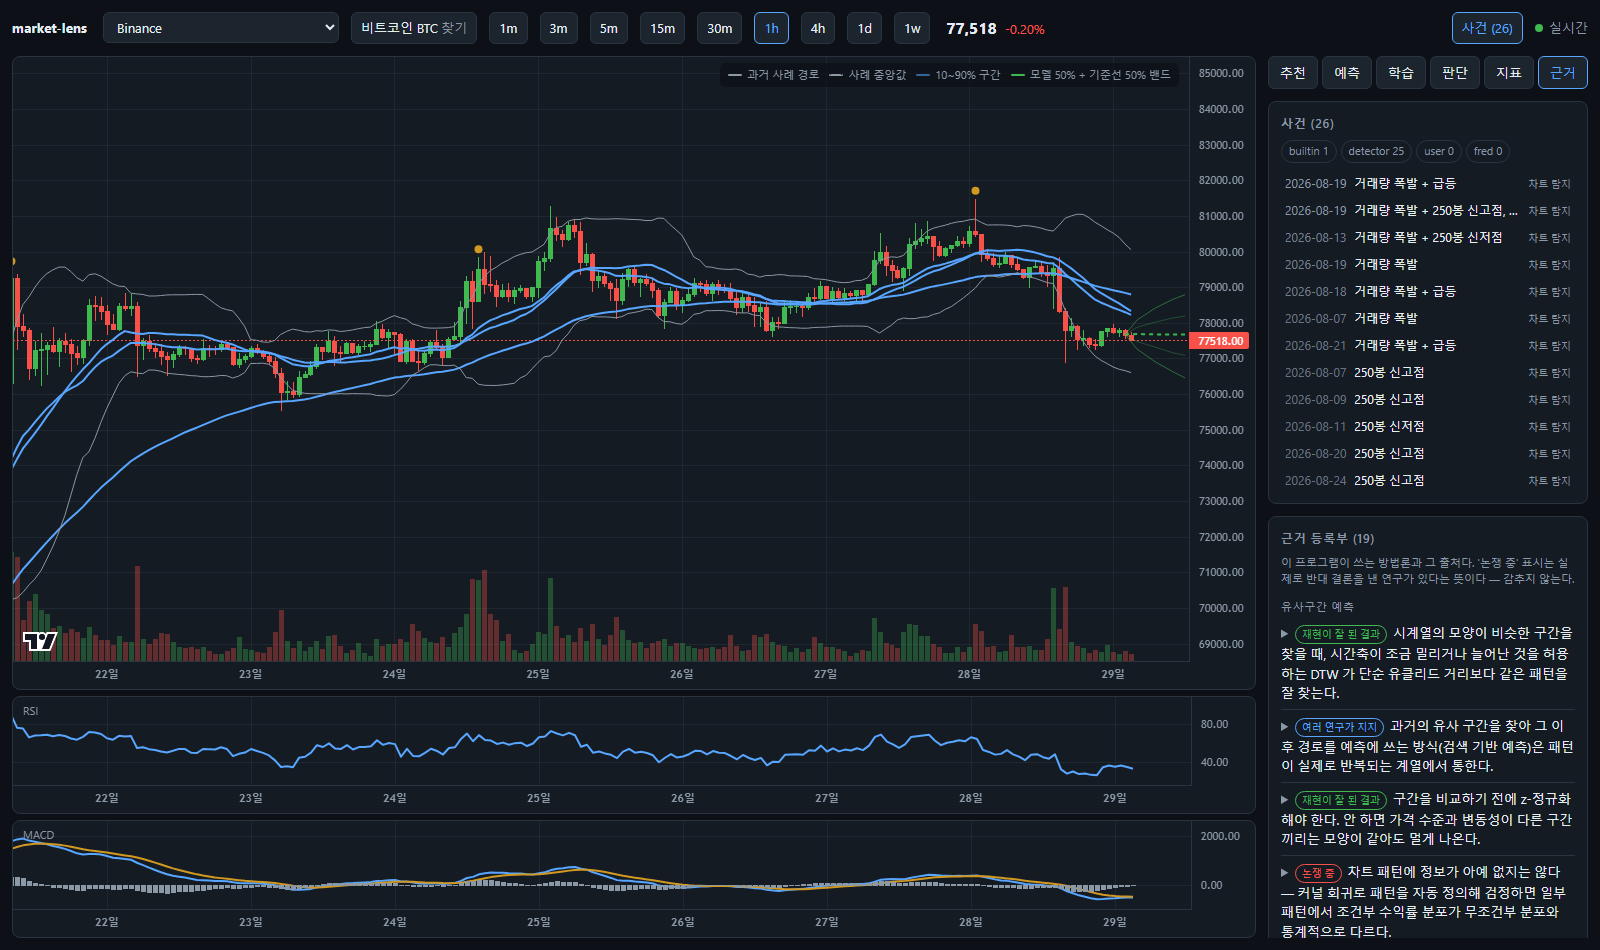
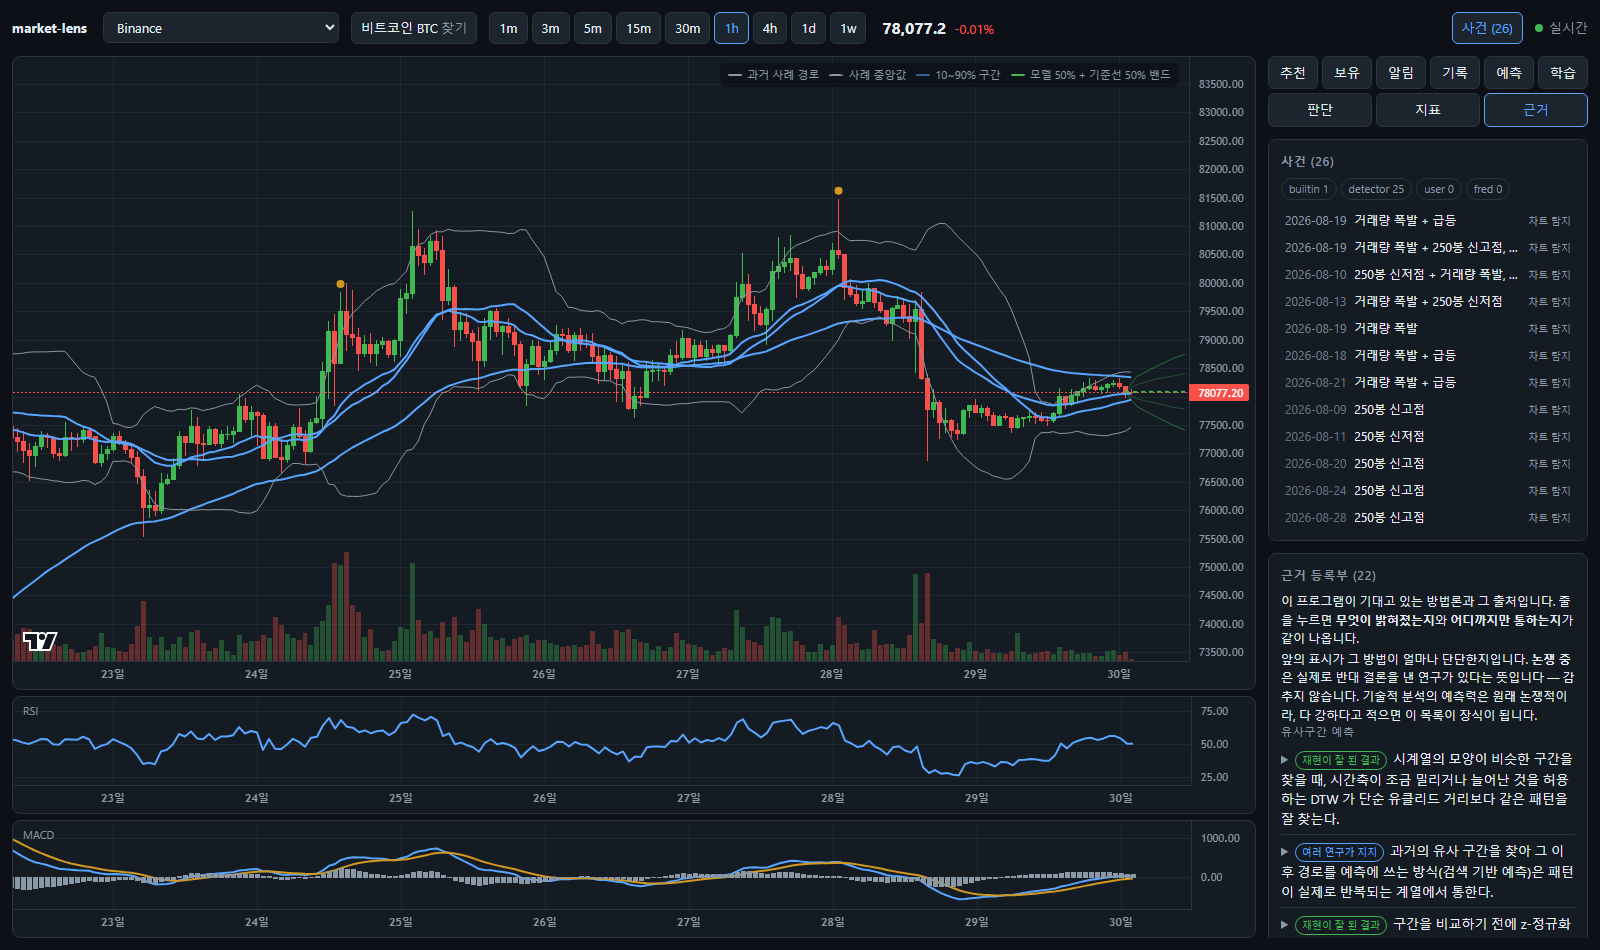
feat: 예측 탭도 말로 설명한다 — 근거 탭은 원래 그랬다
## 근거 탭은 손댈 게 거의 없었다

원래부터 **주장 → 효과 → 한계 → 출처** 구조라 이 저장소에서 제일 잘 쓰인 화면이다.
머리말만 사람에게 하는 말투로 맞추고, '논쟁 중' 표시가 무슨 뜻인지 한 줄 덧붙였다.

## 예측 탭 — 통계 용어를 풀었다

`t 값 2.01 유의` 는 t값을 모르면 못 읽고, 알면 굳이 문장으로 안 읽는다. 뜻을 풀어
쓰고(`우연으로 보기는 어려운 차이입니다`) 숫자는 접어 둔다 — 지우면 확인할 길이
없어진다.

**사건 창이 겹칠 때는 유의성을 아예 말하지 않는다.** 겹치면 사건들이 서로 독립이
아니어서 t 값이 실제보다 커지는데, 예전 화면은 `t 값 2.01 유의` 를 띄우고 그 경고를
아래에 따로 달았다. 읽는 순서상 "유의" 를 먼저 믿게 된다.

서버가 내는 답 문장(`scenario/engine.py: summarize`)도 같이 고쳤다. 화면이 아니라
거기가 이 탭의 본문이라, 한쪽만 고치면 같은 화면에서 두 말투가 섞인다.

## 답을 되풀이하지 않게 나눴다

처음엔 「예측」 카드가 "지금과 비슷했던 자리를 20건 찾았고 가운데쯤이 1.1% 내렸고…"
로 시작했는데, 바로 위 「답」 카드가 이미 같은 말을 하고 있었다. 그러면 둘 다 안
읽힌다. 「답」은 **그래서 어떻게 갔나**, 「예측」은 **그 답을 얼마나 믿을 만한가**
(몇 건이고 얼마나 닮았나)로 나눴다.

## 곁들여

`.plain` 에 아래 여백을 조금 줬다. 없으면 다음 칸 제목이 문장에 붙어 한 덩어리로
읽힌다.

`chart-predict.png` 의 스크롤은 되돌렸다 — 그 그림은 **예측 경로가 마지막 봉 다음부터
그려지는지** 를 보는 유일한 자리라, 옆 띠를 내리면 정작 봐야 할 것이 안 보인다.

diff --git a/web/src/components/AskPanel.tsx b/web/src/components/AskPanel.tsx
@@ -1,6 +1,8 @@
 import { useEffect, useState } from "react";
 
 import type { AskResult, EventStudy, Evidence, Projection, ScenarioForm } from "../types";
+import { analogWords, coverageWords, eventStudyWords } from "../say";
+import { Numbers } from "./Numbers";
 
 const PRESETS: Array<{ label: string; hours: number }> = [
   { label: "1일", hours: 24 },
@@ -293,52 +295,58 @@ function ProjectionCard({ projection }: { projection: Projection }) {
   return (
     <section className="card">
       <h2>예측</h2>
-      <div className="rows">
-        <div className="row">
-          <span>사례 수</span>
-          <b>{projection.sampleCount}건</b>
-        </div>
-        <div className="row">
-          <span>중앙 경로</span>
-          <b>{pct(projection.expectedMovePct, 2)}</b>
-        </div>
-        <div className="row">
-          <span>상승 비중</span>
-          <b>{pct((projection.probUp ?? 0) * 100, 0)}</b>
-        </div>
-        <div className="row">
-          <span>가장 비슷한 정도</span>
-          <b>
-            {closeness(d.distanceMin)}
-            <span style={{ color: "var(--text-dim)" }}> ({d.distanceMin.toFixed(2)})</span>
-          </b>
-        </div>
-        <div className="row">
-          <span>밴드 적중률</span>
-          <b>
-            {d.coverage === null ? "—" : `${(d.coverage * 100).toFixed(0)}%`}
-            <span style={{ color: "var(--text-dim)" }}>
-              {" "}
-              / 목표 {(d.nominalCoverage * 100).toFixed(0)}%
-            </span>
-          </b>
-        </div>
-        {d.widenFactor > 1.01 && (
-          <div className="row">
-            <span>밴드 보정</span>
-            <b>×{d.widenFactor.toFixed(2)}</b>
-          </div>
-        )}
-      </div>
-      {!d.reliable && (
-        <p className="note warn">
-          사례가 적거나 흩어져 있다. 밴드가 실제 분포를 못 담고 있을 수 있으니
-          방향보다 폭을 보는 데 쓸 것.
+      {/* **몇 건인지가 답의 무게다.** 사례 셋짜리 60%와 스물짜리 60%는 다른 말인데,
+          `사례 수 12건` 이라고만 적혀 있으면 그 무게가 안 읽힌다. */}
+      {analogWords(projection.sampleCount, d.distanceMin,
+                   d.reliable).map((line, i) => (
+        <p className="plain" key={i} style={{ marginTop: i === 0 ? 0 : 4 }}>
+          {line.split("**").map((part, j) => (j % 2 === 1 ? <b key={j}>{part}</b> : part))}
         </p>
+      ))}
+      {coverageWords(d.coverage, d.nominalCoverage, d.widenFactor) && (
+        <p className="plain">{coverageWords(d.coverage, d.nominalCoverage, d.widenFactor)}</p>
       )}
+      <Numbers>
+        <div className="rows">
+          <div className="row">
+            <span>사례 수</span>
+            <b>{projection.sampleCount}건</b>
+          </div>
+          <div className="row">
+            <span>중앙 경로</span>
+            <b>{pct(projection.expectedMovePct, 2)}</b>
+          </div>
+          <div className="row">
+            <span>상승 비중</span>
+            <b>{pct((projection.probUp ?? 0) * 100, 0)}</b>
+          </div>
+          <div className="row">
+            <span>가장 비슷한 정도</span>
+            <b>
+              {closeness(d.distanceMin)}
+              <span style={{ color: "var(--text-dim)" }}> ({d.distanceMin.toFixed(2)})</span>
+            </b>
+          </div>
+          <div className="row">
+            <span>밴드 적중률</span>
+            <b>
+              {d.coverage === null ? "—" : `${(d.coverage * 100).toFixed(0)}%`}
+              <span style={{ color: "var(--text-dim)" }}>
+                {" "}/ 목표 {(d.nominalCoverage * 100).toFixed(0)}%
+              </span>
+            </b>
+          </div>
+          {d.widenFactor > 1.01 && (
+            <div className="row">
+              <span>밴드 보정</span>
+              <b>×{d.widenFactor.toFixed(2)}</b>
+            </div>
+          )}
+        </div>
+      </Numbers>
       <p className="formula" style={{ marginBottom: 0 }}>
-        회색 얇은 선이 과거 사례의 실제 경로, 파란 점선이 그 중앙값, 옅은 파란 선이
-        10·25·75·90% 구간이다. 노란 점선은 같은 종류의 사건 이후 평균 경로.
+        차트의 회색 얇은 선이 과거 사례의 실제 경로, 파란 점선이 그 중앙값, 옅은 파란
+        선이 10·25·75·90% 구간이다. 노란 점선은 같은 종류의 사건 이후 평균 경로.
       </p>
     </section>
   );
@@ -374,38 +382,44 @@ function EventStudyCard({ study }: { study: EventStudy }) {
   if (!study.available) return null;
   return (
     <section className="card">
-      <h2>사건 이후 (이벤트 스터디)</h2>
-      <div className="rows">
-        <div className="row">
-          <span>사건 수</span>
-          <b>{study.count}건</b>
-        </div>
-        <div className="row">
-          <span>{study.after}봉 뒤 누적 초과수익</span>
-          <b style={{ color: (study.finalCarPct ?? 0) >= 0 ? "var(--up)" : "var(--down)" }}>
-            {pct(study.finalCarPct, 2)}
-          </b>
-        </div>
-        <div className="row">
-          <span>t 값</span>
-          <b>
-            {study.finalTStat?.toFixed(2)}{" "}
-            <span style={{ color: study.significant ? "var(--up)" : "var(--text-dim)" }}>
-              {study.significant ? "유의" : "유의하지 않음"}
-            </span>
-          </b>
-        </div>
-        <div className="row">
-          <span>방향 일치율</span>
-          <b>{pct((study.hitRate ?? 0) * 100, 0)}</b>
-        </div>
-      </div>
-      {study.overlapping && (
-        <p className="note warn">
-          사건 창이 서로 겹친다. 겹치면 사건들이 독립이 아니라서 t 값이 실제보다 커진다 —
-          유의하다는 표시를 그대로 믿지 말 것.
+      <h2>사건 이후</h2>
+      {/* **`t 값 2.01 유의` 를 그대로 내보내지 않는다.** 그 표시가 뜻하는 것은
+          "우연으로 보기 어렵다" 인데, t값을 모르면 못 읽고 알면 굳이 문장으로 안 읽는다.
+          뜻을 풀고 숫자는 아래 접어 둔다. */}
+      {eventStudyWords(study.count ?? 0, study.after ?? 0, study.finalCarPct ?? null,
+                       Boolean(study.significant), study.hitRate ?? null,
+                       Boolean(study.overlapping)).map((line, i) => (
+        <p className="plain" key={i} style={{ marginTop: i === 0 ? 0 : 4 }}>
+          {line.split("**").map((part, j) => (j % 2 === 1 ? <b key={j}>{part}</b> : part))}
         </p>
-      )}
+      ))}
+      <Numbers>
+        <div className="rows">
+          <div className="row">
+            <span>사건 수</span>
+            <b>{study.count}건</b>
+          </div>
+          <div className="row">
+            <span>{study.after}봉 뒤 누적 초과수익 (CAR)</span>
+            <b style={{ color: (study.finalCarPct ?? 0) >= 0 ? "var(--up)" : "var(--down)" }}>
+              {pct(study.finalCarPct, 2)}
+            </b>
+          </div>
+          <div className="row">
+            <span>t 값</span>
+            <b>
+              {study.finalTStat?.toFixed(2)}{" "}
+              <span style={{ color: study.significant ? "var(--up)" : "var(--text-dim)" }}>
+                {study.significant ? "유의" : "유의하지 않음"}
+              </span>
+            </b>
+          </div>
+          <div className="row">
+            <span>방향 일치율</span>
+            <b>{pct((study.hitRate ?? 0) * 100, 0)}</b>
+          </div>
+        </div>
+      </Numbers>
     </section>
   );
 }

diff --git a/web/src/say.ts b/web/src/say.ts
@@ -278,3 +278,75 @@ export function afterWords(points: number[]): string | null {
   if (last > 0) return rising ? "그 뒤로 계속 올랐습니다" : "그 뒤로 올랐다가 힘이 빠졌습니다";
   return rising ? "내렸다가 돌아오는 중입니다" : "그 뒤로 계속 내렸습니다";
 }
+
+// --- 예측 (유사구간) -----------------------------------------------------
+
+/**
+ * 유사구간 예측을 한 문단으로.
+ *
+ * 이 예측은 "지금과 비슷했던 과거를 찾아 그때 이후를 본다" 하나다. 그래서 **사례가
+ * 몇 건이고 얼마나 비슷했나**가 답의 무게를 정한다 — 사례 셋짜리 60%와 스물짜리
+ * 60%는 다른 말이다(`analog/projection.py: diagnostics.reliable`).
+ *
+ * **답을 되풀이하지 않는다.** 위의 「답」 카드가 이미 "그래서 어떻게 갔나" 를 말하므로
+ * 여기는 **"그 답을 얼마나 믿을 만한가"** 만 맡는다 — 몇 건이고 얼마나 닮았나.
+ */
+export function analogWords(count: number, distance: number,
+                            reliable?: boolean): string[] {
+  const many = count >= 20 ? "제법 많습니다" : count >= 10 ? "그럭저럭 됩니다" : "적습니다";
+  // 거리는 z-정규화한 창끼리의 DTW 거리다. 작을수록 모양이 닮았다.
+  const close = distance < 0.2 ? "지금과 거의 판박이였습니다"
+    : distance < 0.4 ? "지금과 제법 닮았습니다"
+    : distance < 0.7 ? "지금과 어느 정도만 닮았습니다"
+    : "지금과 그리 닮지 않았습니다";
+  const out = [`비슷했던 자리를 ${count}건 찾았습니다 — 이 정도면 ${many}. 그중 가장 가까운 자리는 ${close}.`];
+
+  // **믿을 자리인지 먼저 말한다.** 이 도구가 제일 조심해야 하는 자리다 —
+  // 사례 셋짜리 60%와 스물짜리 60%는 다른 말이다.
+  out.push(reliable
+    ? "사례가 충분히 모였고 서로 비슷해서, 위 답의 **폭**은 읽을 만합니다."
+    : "**다만 사례가 적거나 서로 흩어져 있습니다.** 폭이 실제를 못 담고 있을 수 있으니 방향보다 폭을 보는 데만 쓰는 게 맞습니다.");
+  return out;
+}
+
+/** 밴드가 실제로 얼마나 맞았나(사례 하나를 빼고 만든 밴드가 그 사례를 덮었나). */
+export function coverageWords(coverage: number | null, target: number,
+                              widen: number): string | null {
+  if (coverage === null || !Number.isFinite(coverage)) return null;
+  const hit = outOfTen(coverage);
+  const goal = Math.round(target * 100);
+  const wide = widen > 1.01 ? ` 모자란 만큼 폭을 ${widen.toFixed(2)}배로 넓혔습니다.` : "";
+  return `사례 하나를 빼고 만든 폭이 그 사례를 ${hit} 덮었습니다 (목표 ${goal}%).${wide}`;
+}
+
+/**
+ * 이벤트 스터디를 말로. **`t 값 2.01 유의` 를 그대로 내보내지 않는다.**
+ *
+ * 그 표시가 뜻하는 것은 "우연으로 보기 어렵다" 이고, 아닐 때는 "우연일 수도 있다" 다.
+ * t값을 모르면 못 읽고, 알면 굳이 문장으로 안 읽는다 — 뜻을 풀고 숫자는 남긴다.
+ *
+ * `overlapping` 이면 그 판정 자체를 믿으면 안 된다. 사건 창이 겹치면 사건들이 독립이
+ * 아니라서 t 값이 실제보다 커진다.
+ */
+export function eventStudyWords(count: number, after: number, carPct: number | null,
+                                significant: boolean, hitRate: number | null,
+                                overlapping: boolean): string[] {
+  const car = carPct ?? 0;
+  const where = Math.abs(car) < 0.3 ? "평소와 별로 다르지 않았습니다"
+    : car > 0 ? `평소보다 ${car.toFixed(1)}% 더 갔습니다`
+    : `평소보다 ${Math.abs(car).toFixed(1)}% 덜 갔습니다`;
+  const out = [`같은 종류의 사건이 과거에 ${count}건 있었고, 그 뒤 ${after}봉 동안 ${where}.`];
+
+  if (overlapping) {
+    // **겹치면 판정을 믿을 수 없다.** 유의/유의하지 않음보다 이 말이 먼저다.
+    out.push("**다만 사건 창이 서로 겹칩니다.** 그러면 사건들이 서로 독립이 아니어서 " +
+             "이 차이가 실제보다 커 보입니다 — 우연인지 아닌지는 판단하지 않는 게 맞습니다.");
+  } else {
+    out.push(significant
+      ? "우연으로 보기는 어려운 차이입니다."
+      : "다만 우연히 그렇게 보일 수도 있는 정도라, 이것만으로는 말하기 어렵습니다.");
+  }
+  const hit = outOfTen(hitRate);
+  if (hit) out.push(`방향은 ${hit} 같은 쪽이었습니다.`);
+  return out;
+}

diff --git a/web/src/components/Panels.tsx b/web/src/components/Panels.tsx
@@ -366,9 +366,16 @@ export function EvidenceLibrary({ entries }: { entries: Evidence[] }) {
   return (
     <section className="card">
       <h2>근거 등록부 ({entries.length})</h2>
-      <p className="formula" style={{ marginTop: 0 }}>
-        이 프로그램이 쓰는 방법론과 그 출처다. '논쟁 중' 표시는 실제로 반대 결론을 낸
-        연구가 있다는 뜻이다 — 감추지 않는다.
+      {/* 이 화면은 원래부터 **주장 → 효과 → 한계 → 출처** 로 말이 먼저다.
+          머리말만 사람에게 하는 말투로 맞춘다. */}
+      <p className="plain" style={{ marginTop: 0 }}>
+        이 프로그램이 기대고 있는 방법론과 그 출처입니다. 줄을 누르면 <b>무엇이
+        밝혀졌는지</b>와 <b>어디까지만 통하는지</b>가 같이 나옵니다.
+      </p>
+      <p className="plain">
+        앞의 표시가 그 방법이 얼마나 단단한지입니다. <b>논쟁 중</b>은 실제로 반대
+        결론을 낸 연구가 있다는 뜻입니다 — 감추지 않습니다. 기술적 분석의 예측력은
+        원래 논쟁적이라, 다 강하다고 적으면 이 목록이 장식이 됩니다.
       </p>
       {fields.map((field) => (
         <div key={field}>

diff --git a/web/src/theme.css b/web/src/theme.css
@@ -223,7 +223,8 @@ button:disabled { opacity: 0.4; cursor: default; }
 
 /* 사람 말로 쓴 설명. 이 화면에서 **먼저 읽히는 줄**이라 본문 크기로 두고,
    숫자보다 밝게 둔다 — 반대로 하면 결국 숫자부터 읽게 된다. */
-.plain { color: var(--text); font-size: 12px; line-height: 1.55; margin: 2px 0 0; }
+/* 아래 여백을 조금 준다. 없으면 다음 칸 제목이 문장에 붙어 한 덩어리로 읽힌다. */
+.plain { color: var(--text); font-size: 12px; line-height: 1.55; margin: 2px 0 5px; }
 
 /* 접어 둔 숫자(`components/Numbers.tsx`). 여는 글자는 눈에 안 띄어야 한다 —
    설명을 다 읽고 그래도 궁금할 때 찾는 자리지, 먼저 누르라고 있는 게 아니다. */

diff --git a/server/marketlens/scenario/engine.py b/server/marketlens/scenario/engine.py
@@ -133,33 +133,44 @@ def _event_path(car_profile: dict, last_close: float, last_ts: int, timeframe: s
 
 
 def summarize(scenario: Scenario, forecast: dict, car: dict, matched: int) -> str:
-    """숫자를 사람 문장으로. 단정하지 않는다 — 근거의 크기를 같이 말한다."""
+    """숫자를 사람 문장으로. 단정하지 않는다 — 근거의 크기를 같이 말한다.
+
+    **이 답을 읽는 사람이 t값·유의성을 공부했을 이유가 없다.** 예전에는
+    `그 차이는 통계적으로 유의하다(t=+2.01)` 로 나갔는데, 그걸 모르면 읽을 수 없고
+    알면 굳이 문장으로 안 읽는다. 뜻을 풀어 쓰고 숫자는 `t값` 그대로 괄호에 남긴다 —
+    지우면 확인할 길이 없어진다.
+    """
     if not forecast.get("available"):
-        return f"{scenario.horizon_text} 뒤를 볼 만한 과거 사례를 찾지 못했다."
+        return f"{scenario.horizon_text} 뒤를 볼 만한 과거 사례를 찾지 못했습니다."
 
     move = forecast["expectedMovePct"]
     prob = forecast["probUp"] * 100
     count = forecast["sampleCount"]
     reliable = forecast["diagnostics"]["reliable"]
 
+    where = ("거의 제자리였습니다" if abs(move) < 0.5
+             else f"{abs(move):.1f}% {'올랐습니다' if move > 0 else '내렸습니다'}")
     parts = [
-        f"비슷했던 과거 {count}건을 기준으로 {scenario.horizon_text} 뒤 중앙값은 "
-        f"{move:+.2f}%, 상승 쪽이 {prob:.0f}% 다."
+        f"지금과 비슷했던 과거 {count}건을 찾았고, 그 뒤 {scenario.horizon_text} 동안 "
+        f"가운데쯤이 {where}. 그중 {prob:.0f}%가 오른 자리였습니다."
     ]
     if scenario.event_kinds or scenario.event_tags:
         if matched:
-            parts.append(f"조건에 맞는 사건 {matched}건이 후보를 좁혔다.")
+            parts.append(f"사건 조건에 맞는 자리 {matched}건으로 후보를 좁혔습니다.")
         else:
-            parts.append("다만 조건에 맞는 사건이 과거에 없어 사건 조건은 적용되지 않았다.")
+            parts.append("다만 조건에 맞는 사건이 과거에 없어 사건 조건은 적용하지 못했습니다.")
     if car.get("available"):
-        sign = "위" if car["finalCarPct"] > 0 else "아래"
-        verdict = "통계적으로 유의하다" if car["significant"] else "통계적으로 유의하지 않다"
+        sign = "더 갔습니다" if car["finalCarPct"] > 0 else "덜 갔습니다"
+        # "유의하다/않다" 를 그대로 쓰지 않는다. 그 말이 뜻하는 것은 "우연으로 보기
+        # 어렵다" 이고, 아닐 때는 "우연일 수도 있다" 다.
+        verdict = ("우연으로 보기는 어려운 차이입니다" if car["significant"]
+                   else "다만 우연히 그렇게 보일 수도 있는 정도입니다")
         parts.append(
-            f"같은 종류의 사건 {car['count']}건에서는 이후 평균이 정상 수익률보다 "
-            f"{abs(car['finalCarPct']):.2f}% {sign}였고, 그 차이는 {verdict}(t={car['finalTStat']:+.2f})."
+            f"같은 종류의 사건 {car['count']}건에서는 그 뒤 평소보다 "
+            f"{abs(car['finalCarPct']):.2f}% {sign} — {verdict}(t={car['finalTStat']:+.2f})."
         )
     if not reliable:
-        parts.append("사례가 적거나 흩어져 있어 이 숫자는 참고 수준으로만 볼 것.")
+        parts.append("사례가 적거나 서로 흩어져 있어, 방향보다 폭을 보는 데만 쓰는 게 맞습니다.")
     return " ".join(parts)
 
 

diff --git a/CLAUDE.md b/CLAUDE.md
@@ -630,6 +630,16 @@
   ⚠ **`살 만한 셋` 에 든 날만 그렇게 부를 것.** 셋 다 아닌데 "그중 N일 뒤를 제일 좋게
   봤다" 고 쓰면 **없던 매수 신호가 생긴다.** 시점을 찍어 주지도 않는다 — 방향 적중이
   반반을 겨우 넘는 모델로 "언제 사라" 를 말하면 그 사실을 숨기는 화면이 된다.
+- **통계 용어를 그대로 내보내지 말 것.** `t 값 2.01 유의` 는 t값을 모르면 못 읽고
+  알면 굳이 문장으로 안 읽는다. 뜻을 풀어 쓰고(`우연으로 보기는 어려운 차이입니다`)
+  숫자는 접어 둔다 — 지우면 확인할 길이 없어진다. `scenario/engine.py: summarize`
+  가 내는 답 문장도 같은 규칙을 지킨다(서버가 만드는 유일한 사람 문장이다).
+  ⚠ **사건 창이 겹치면 유의성을 아예 말하지 않는다.** 겹치면 사건들이 독립이 아니어서
+  t 값이 실제보다 커지는데, 예전 화면은 `유의` 라고 띄우고 경고를 그 아래 따로 달았다 —
+  읽는 순서상 "유의" 를 먼저 믿게 된다.
+- **답을 되풀이하지 말 것.** 「답」 카드가 "그래서 어떻게 갔나" 를 말하면 「예측」 카드는
+  **"그 답을 얼마나 믿을 만한가"** 만 맡는다. 둘 다 사례 수와 중앙값을 적으면 같은
+  문장이 두 번 나오고, 그러면 둘 다 안 읽힌다.
 - **숫자가 곧 답인 자리는 접지 말 것.** 보유의 손익(`지금까지 −₩3,487,500 (−69.75%)`)
   이나 실현손익은 말로 바꾸면 오히려 못 읽는다. 거기서 말이 필요한 건 **"그래서 지금
   어디쯤인가"** 쪽이라 손절선·목표까지 얼마나 남았는지를 문장으로 얹고, 진입가·평가
